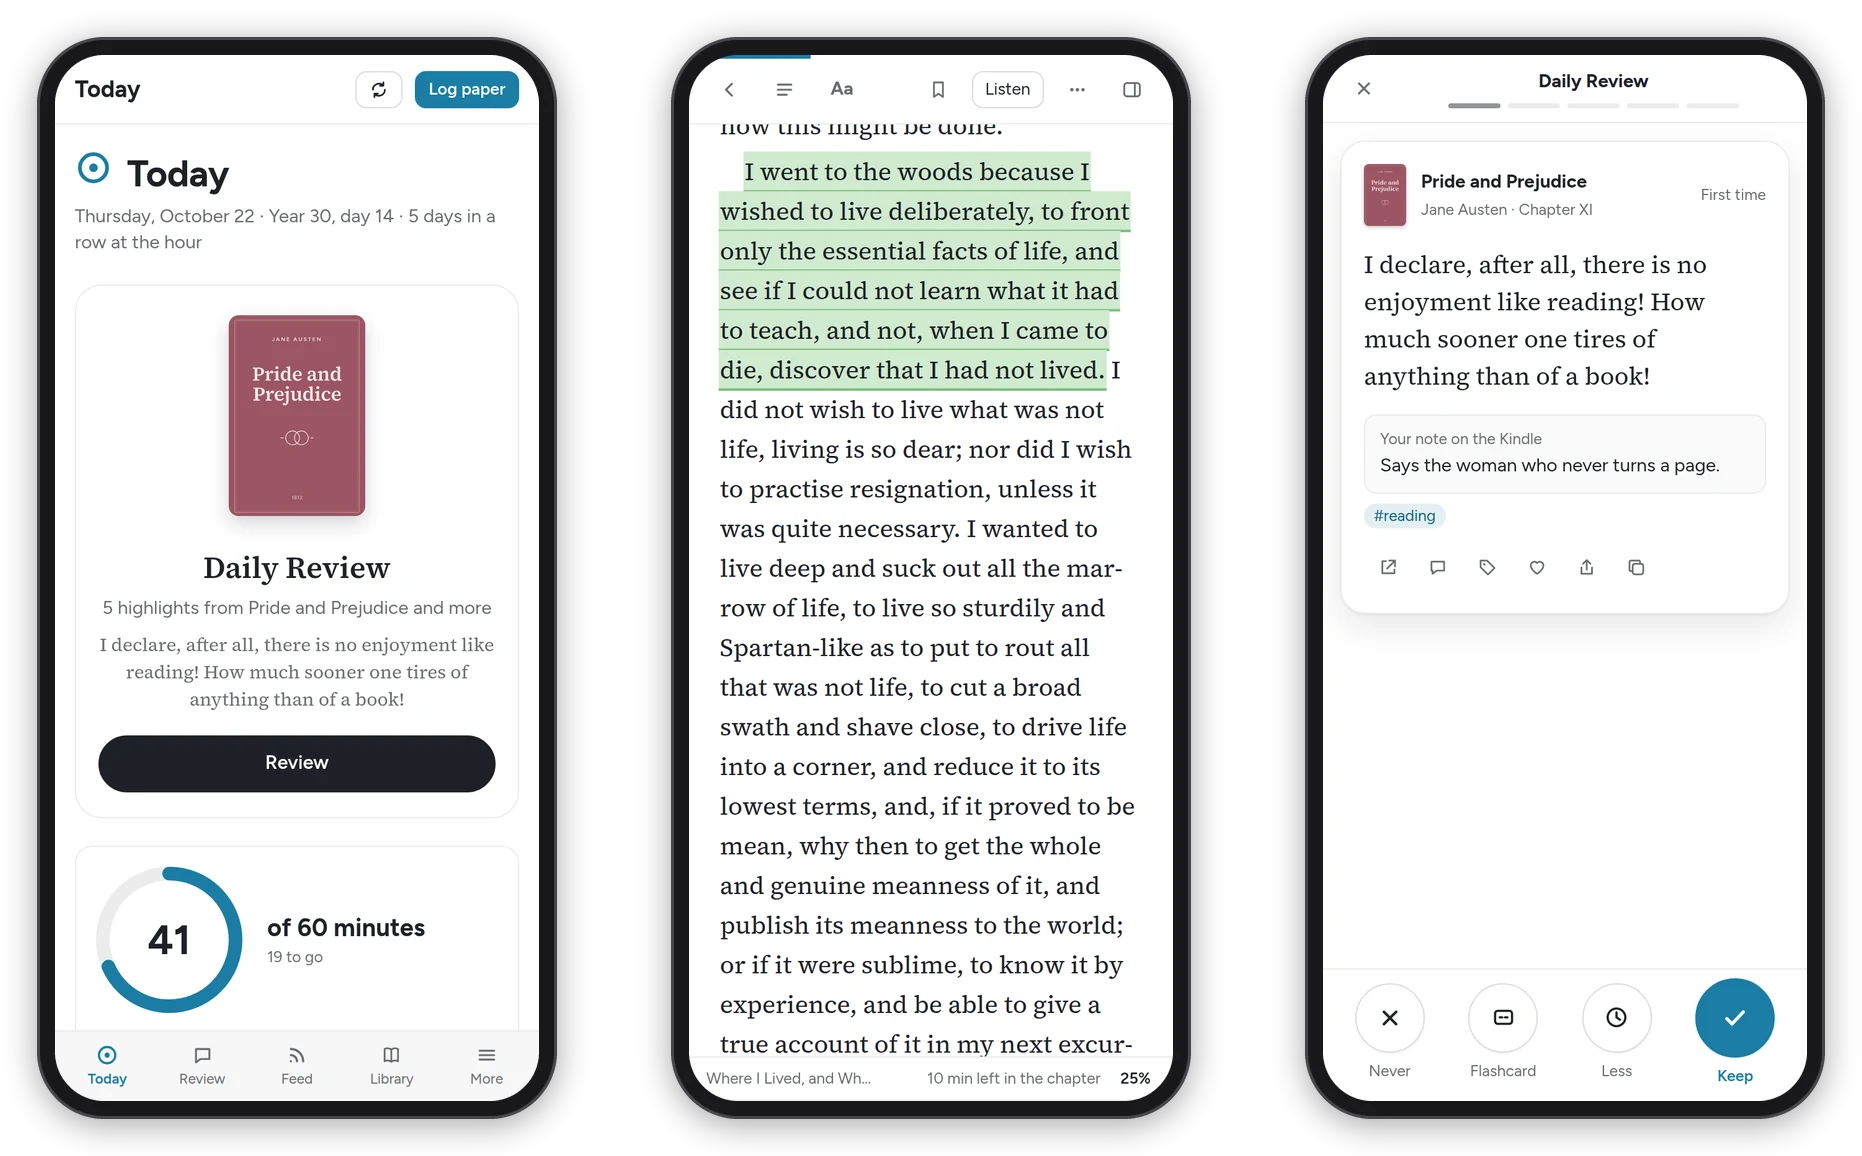
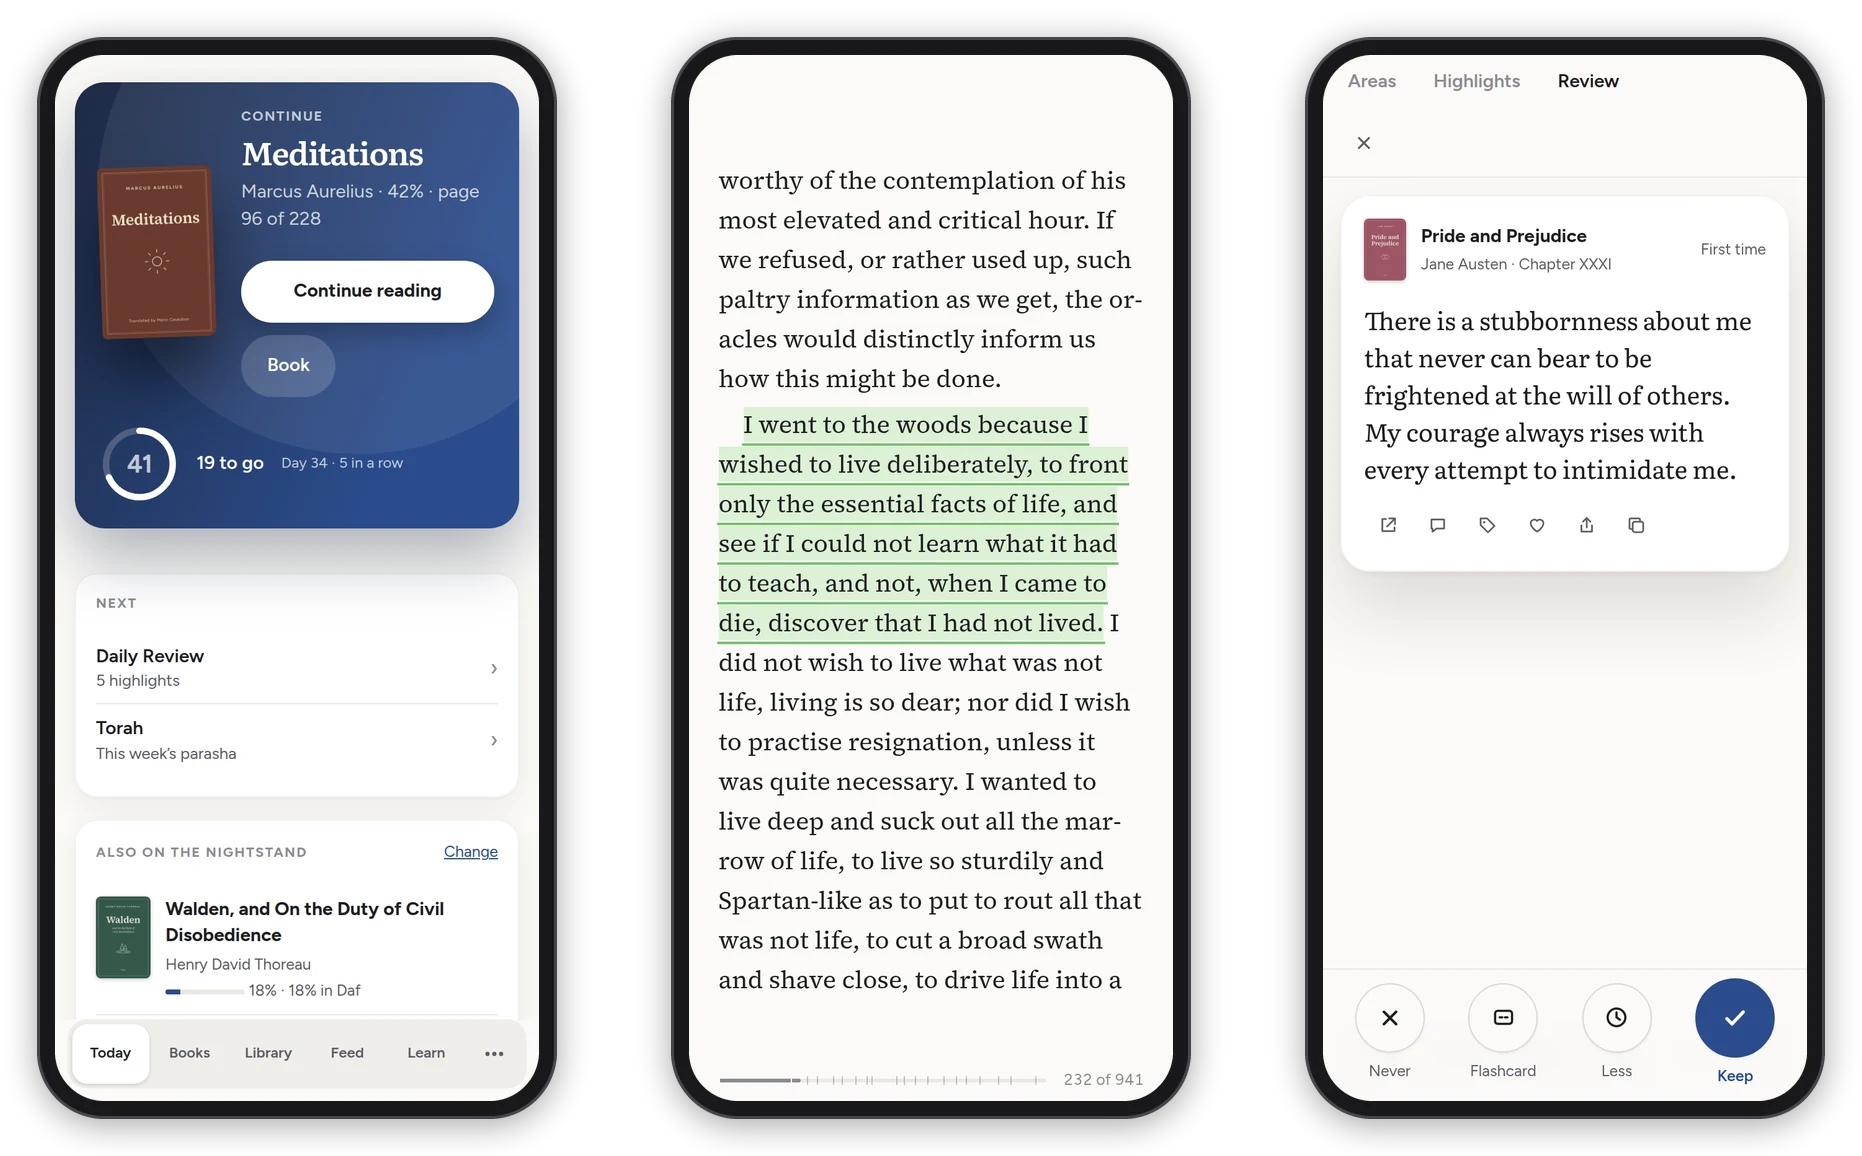
The guide's pictures in the new look, from the sample library
docs/images retaken with tools/docs_shots.py. The sample library's pinned places never include
Recovery now (taste/app/demo.js), since the new look builds its tabs from them; the old sidebar was
filtered, the tabs weren't.

diff --git a/taste/app/demo.js b/taste/app/demo.js
@@ -1017,6 +1017,9 @@ Object.defineProperty(window, 'DafCore', { configurable: true, get(){ return cor
   if (!v || typeof v !== 'object') return;
   let extra = v.navExtra;
   Object.defineProperty(v, 'navExtra', { configurable: true, enumerable: true, get(){ return extra && ((x, n) => navFilter(extra(x, n))); }, set(f){ extra = f; } });
+  // the new look's tabs come from the pinned places: Recovery never, and in the demo none it can't open
+  const pins = v.pinsOn;
+  if (typeof pins === 'function') v.pinsOn = () => pins().filter(p => p !== 'recovery' && (SEED.docs || !['manga', 'torah', 'podcasts', 'paper'].includes(p)));
   const views = v.views || (v.views = {}), fixed = Object.assign(SEED.docs ? {} : AWAY, { recovery: RECOVERY_VIEW });
   for (const [k, f] of Object.entries(fixed)) Object.defineProperty(views, k, { configurable: true, enumerable: true, get(){ return f; }, set(){} });
 } });
